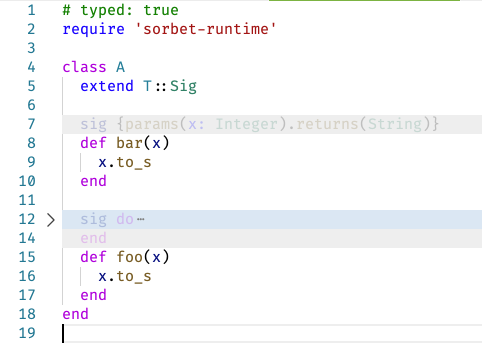
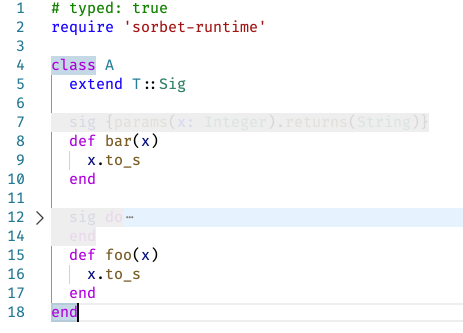
Clean code.

diff --git a/extension.js b/extension.js
@@ -1,8 +1,7 @@
 const vscode = require('vscode');
 
 const decorationRenderOption = {
-	opacity: "0.2",
-	isWholeLine: true,
+	opacity: "0.1",
 	backgroundColor: "#eeeeee",
 };
 const COMMAND_FOLD = 'editor.fold';
@@ -36,7 +35,7 @@ function hideSig() {
 	byesigDecorationType = vscode.window.createTextEditorDecorationType(decorationRenderOption);
 	let editor = vscode.window.activeTextEditor;
 	if (!editor) {
-		console.log("Active editor not found");
+		return;
 	}
 
 	let ranges = [];
@@ -49,7 +48,7 @@ function hideSig() {
 async function foldSig() {
 	let editor = vscode.window.activeTextEditor;
 	if (!editor) {
-		console.log("Active editor not found");
+		return;
 	}
 
 	let folded_selections = [];
@@ -64,9 +63,6 @@ async function foldSig() {
 
 	if (folded_selections.length > 0) {
 		editor.selections = folded_selections;
-		folded_selections.forEach((v) => {
-			console.log('folding line:', v.active.line);
-		})
 		await vscode.commands.executeCommand(COMMAND_UNFOLD_ALL);
 		await vscode.commands.executeCommand(COMMAND_FOLD);
 		editor.selection = original_selection;
